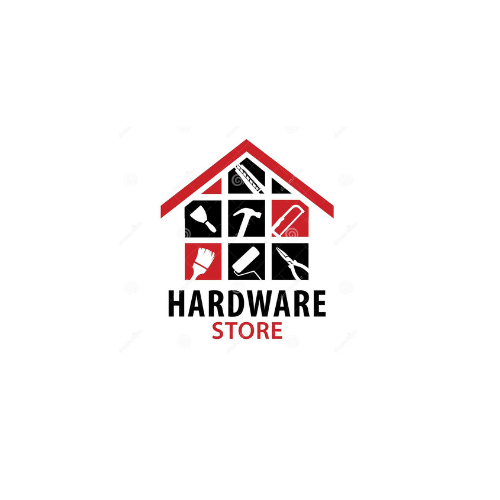
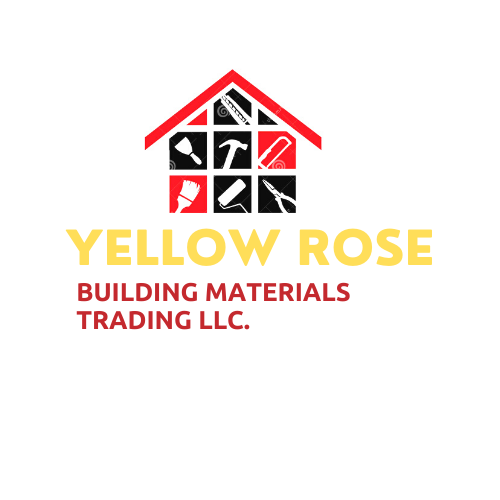
new

Changed region(s): [[0.12, 0.12, 0.87, 0.69]]

diff --git a/index.html b/index.html
@@ -43,7 +43,7 @@
                         <ul class="top-info text-center text-md-left ">
                             <li>
                                 <i class="fas fa-map-marker-alt "></i>
-                                <p class="info-text ">Industrial Area:03 , Sharjha. U.A.E, P.O BOX #65333
+                                <p class="info-text ">Industrial Area:03 , Sharjha, U.A.E
                                 </p>
                             </li>
                         </ul>
@@ -87,7 +87,7 @@
                         <div class="row align-items-center ">
                             <div class="logo col-lg-3 text-center text-lg-left mb-3 mb-md-5 mb-lg-0 ">
                                 <a class="d-block " href="index.html ">
-                                    <img loading="lazy " src="new img/main.png" alt="logo " />
+                                    <img loading="lazy " src="new img/huge.png" alt="logo " />
                                 </a>
                             </div>
                             <!-- logo end -->
@@ -97,15 +97,15 @@
                                     <li>
                                         <div class="info-box ">
                                             <div class="info-box-content ">
-                                                <p class="info-box-title ">Contact</p>
-                                                <p class="info-box-subtitle ">Industrial Area :03, Sharjha ,U.A.E <br> P.O BOX #65333</p>
+                                                <p class="info-box-title ">CONTACT:</p>
+                                                <p class="info-box-subtitle ">Industrial Area :03, Sharjha ,U.A.E </p>
                                             </div>
                                         </div>
                                     </li>
                                     <li>
                                         <div class="info-box ">
                                             <div class="info-box-content ">
-                                                <p class="info-box-title ">Phone</p>
+                                                <p class="info-box-title ">PHONE:</p>
                                                 <p class="info-box-subtitle ">+971 56 742 3322 </p>
                                             </div>
                                         </div>
@@ -113,14 +113,14 @@
                                     <li>
                                         <div class="info-box ">
                                             <div class="info-box-content ">
-                                                <p class="info-box-title ">Email</p>
+                                                <p class="info-box-title ">Email:</p>
                                                 <p class="info-box-subtitle "> yellowrose.buildingmaterials@gmail.com</p>
                                             </div>
                                         </div>
                                     </li>
 
                                     <li class="header-get-a-quote ">
-                                        <a style="background-color: rgb(56, 159, 255) " class="btn btn-primary " href="index.html ">Contact Us</a
+                                        <a style="background-color: rgb(175, 46, 46) " class="btn btn-primary " href="index.html ">Contact Us</a
                       >
                     </li>
                   </ul>
@@ -401,7 +401,7 @@
                     id="all "
                     value="all "
                     checked="checked "
-                  />wood
+                  /> <h4 style="padding:10px;margin-top:10px ; background-color:rgb(255, 207, 47)">wood</h4>
                
 
             </div>
@@ -413,7 +413,7 @@
                 <div class="col-lg-4 col-md-6 shuffle-item " data-groups='["government ","healthcare "]'>
                     <div class="project-img-container ">
                         <a class="gallery-popup " href="new img/wood-1.jpeg " aria-label="project-img ">
-                            <img class="img-fluid " src="new img/wood-2.jpeg " alt="project-img " />
+                            <img style="margin-top:10px; border-bottom: 5px solid rgb(179, 73, 46);"class="img-fluid " src="new img/wood-2.jpeg " alt="project-img " />
                             <span class="gallery-icon "><i class="fa fa-plus "></i
                       ></span>
                         </a>
@@ -431,8 +431,8 @@
 
                 <div class="col-lg-4 col-md-6 shuffle-item " data-groups='["healthcare "]'>
                     <div class="project-img-container ">
-                        <a class="gallery-popup " href="new img/wood-1.jpeg " aria-label="project-img ">
-                            <img class="img-fluid " src="new img/wood-1.jpeg " alt="project-img " />
+                        <a class="gallery-popup " href="new img/wood-1.jpeg " aria-label="project-img "> 
+                            <img style="margin-top:10px; border-bottom: 5px solid rgb(179, 73, 46);"class="img-fluid " src="new img/wood-1.jpeg " alt="project-img " /><br>
                             <span class="gallery-icon "><i class="fa fa-plus "></i
                       ></span>
                         </a>
@@ -444,7 +444,7 @@
                 <div class="col-lg-4 col-md-6 shuffle-item " data-groups='["infrastructure ","commercial "]'>
                     <div class="project-img-container ">
                         <a class="gallery-popup " href="new img/wood-3.jpeg " aria-label="project-img ">
-                            <img class="img-fluid " src="new img/wood-3.jpeg " alt="project-img " />
+                            <img style="margin-top:10px; border-bottom: 5px solid rgb(179, 73, 46);"class="img-fluid " src="new img/wood-3.jpeg " alt="project-img " /><br> <br>
                             <span class="gallery-icon "><i class="fa fa-plus "></i
                       ></span>
                         </a>
@@ -456,7 +456,7 @@
                 <div class="col-lg-4 col-md-6 shuffle-item " data-groups='["education ","infrastructure "]'>
                     <div class="project-img-container ">
                         <a class="gallery-popup " href="new img/wood-5.jpeg " aria-label="project-img ">
-                            <img class="img-fluid " src="new img/wood-5.jpeg " alt="project-img " />
+                            <img style="margin-top:10px; border-bottom: 5px solid rgb(179, 73, 46);" class="img-fluid " src="new img/wood-5.jpeg " alt="project-img " /><br><br>
                             <span class="gallery-icon "><i class="fa fa-plus "></i
                       ></span>
                         </a>
@@ -467,8 +467,8 @@
 
                 <div class="col-lg-4 col-md-6 shuffle-item " data-groups='["infrastructure ","education "]'>
                     <div class="project-img-container ">
-                        <a class="gallery-popup " href="new img/wood-6.jpeg " aria-label="project-img ">
-                            <img class="img-fluid " src="new img/wood-6.jpeg " alt="project-img " />
+                        <a style="margin-top:10px; border-bottom: 4px solid #ddd;" class="gallery-popup " href="new img/wood-6.jpeg " aria-label="project-img ">
+                            <img  style="margin-top:10px; border-bottom: 5px solid rgb(179, 73, 46);" class="img-fluid " src="new img/wood-6.jpeg " alt="project-img " /><br><br>
                             <span class="gallery-icon "><i class="fa fa-plus "></i
                       ></span>
                         </a>
@@ -478,8 +478,8 @@
 
                     <div class="col-lg-4 col-md-6 shuffle-item " data-groups='["residential "]'>
                         <div class="project-img-container ">
-                            <a class="gallery-popup " href="new img/wood-7.jpeg " aria-label="project-img ">
-                                <img class="img-fluid " src="new img/wood-7.jpeg " alt="project-img " />
+                            <a style="margin-top:10px; border-bottom: 1px solid #ddd;" class="gallery-popup " href="new img/wood-7.jpeg " aria-label="project-img ">
+                                <img style="margin-top:10px; border-bottom: 5px solid rgb(179, 73, 46);" style="margin-top:10px; border-bottom: 1px solid #ddd;"  class="img-fluid " src="new img/wood-7.jpeg " alt="project-img " />
                                 <span class="gallery-icon "><i class="fa fa-plus "></i
                       ></span>
                             </a>
@@ -524,8 +524,8 @@
 
                 <div class="col-lg-4 col-md-6 shuffle-item " data-groups='["government ","healthcare "]'>
                     <div class="project-img-container ">
-                        <a class="gallery-popup " href="new img/h11.jpeg " aria-label="project-img ">
-                            <img class="img-fluid " src="new img/h11.jpeg " alt="project-img " />
+                        <a style="margin-top:10px; border-bottom: 5px solid rgb(179, 73, 46);" class="gallery-popup " href="new img/h11.jpeg " aria-label="project-img ">
+                            <img style="margin-top:10px; border-bottom: 5px solid rgb(179, 73, 46);" class="img-fluid " src="new img/h11.jpeg " alt="project-img " />
                             <span class="gallery-icon "><i class="fa fa-plus "></i
                     ></span>
                         </a>
@@ -544,7 +544,7 @@
                 <div class="col-lg-4 col-md-6 shuffle-item " data-groups='["healthcare "]'>
                     <div class="project-img-container ">
                         <a class="gallery-popup " href="new img/h2.jpeg " aria-label="project-img ">
-                            <img class="img-fluid " src="new img/h2.jpeg " alt="project-img " />
+                            <img style="margin-top:10px; border-bottom: 5px solid rgb(179, 73, 46);" class="img-fluid " src="new img/h2.jpeg " alt="project-img " />
                             <span class="gallery-icon "><i class="fa fa-plus "></i
                     ></span>
                         </a>
@@ -556,7 +556,7 @@
                 <div class="col-lg-4 col-md-6 shuffle-item " data-groups='["infrastructure ","commercial "]'>
                     <div class="project-img-container ">
                         <a class="gallery-popup " href="new img/h3.jpeg " aria-label="project-img ">
-                            <img class="img-fluid " src="new img/h3.jpeg " alt="project-img " />
+                            <img style="margin-top:10px; border-bottom: 5px solid rgb(179, 73, 46);" class="img-fluid " src="new img/h3.jpeg " alt="project-img " />
                             <span class="gallery-icon "><i class="fa fa-plus "></i
                     ></span>
                         </a>
@@ -568,7 +568,7 @@
                 <div class="col-lg-4 col-md-6 shuffle-item " data-groups='["education ","infrastructure "]'>
                     <div class="project-img-container ">
                         <a class="gallery-popup " href="new img/h5.jpeg " aria-label="project-img ">
-                            <img class="img-fluid " src="new img/h5.jpeg " alt="project-img " />
+                            <img style="margin-top:10px; border-bottom: 5px solid rgb(179, 73, 46);" class="img-fluid " src="new img/h5.jpeg " alt="project-img " />
                             <span class="gallery-icon "><i class="fa fa-plus "></i
                     ></span>
                         </a>
@@ -580,7 +580,7 @@
                 <div class="col-lg-4 col-md-6 shuffle-item " data-groups='["infrastructure ","education "]'>
                     <div class="project-img-container ">
                         <a class="gallery-popup " href="new img/h6.jpeg " aria-label="project-img ">
-                            <img class="img-fluid " src="new img/h6.jpeg " alt="project-img " />
+                            <img style="margin-top:10px; border-bottom: 5px solid rgb(179, 73, 46);"class="img-fluid " src="new img/h6.jpeg " alt="project-img " />
                             <span class="gallery-icon "><i class="fa fa-plus "></i
                     ></span>
                         </a>
@@ -591,7 +591,7 @@
                     <div class="col-lg-4 col-md-6 shuffle-item " data-groups='["residential "]'>
                         <div class="project-img-container ">
                             <a class="gallery-popup " href="new img/h22.jpeg " aria-label="project-img ">
-                                <img class="img-fluid " src="new img/h22.jpeg " alt="project-img " />
+                                <img style="margin-top:10px; border-bottom: 5px solid rgb(179, 73, 46);" class="img-fluid " src="new img/h22.jpeg " alt="project-img " />
                                 <span class="gallery-icon "><i class="fa fa-plus "></i
                     ></span>
                             </a>
@@ -692,7 +692,7 @@
                 <div class="col-lg-4 ">
                     <div class="subscribe-call-to-acton ">
                         <h3>Can We Help?</h3>
-                        <h4>Industrial Area :03, Sharjha ,U.A.E <br> P.O BOX #65333 <br> <br>
+                        <h4>Industrial Area :03, Sharjha ,U.A.E  <br> <br>
 
                           phone: +971 56 742 3322</h4>
                     </div>
@@ -759,7 +759,7 @@
               <div class="col-lg-4 col-md-6 footer-widget mt-5 mt-md-0 ">
                 <h3 class="widget-title ">Touch with us</h3>
                 <div class="working-hours ">
-                    Industrial Area :03, Sharjha ,U.A.E <br> P.O BOX #65333
+                    Industrial Area :03, Sharjha ,U.A.E <br> <br>
 <br> <br>                  phone: 971 56 742 3322
                 </div>
               </div>

diff --git a/css/style.css b/css/style.css
@@ -79,8 +79,8 @@ h5 {
 html {
     overflow-x: hidden !important;
     height: 100%;
-    max-width: 90%;
-    margin-left: 10px;
+    max-width: 97%;
+    margin-left: 0px;
     position: relative;
     -webkit-font-smoothing: antialiased;
     text-rendering: optimizeLegibility;
@@ -776,12 +776,12 @@ ul.navbar-nav>li.active>a {
 /*-- Logo --*/
 
 .logo img {
-    width: 100%;
-    height: 20%;
+    width: 120%;
+    height: 10%;
 }
 
 .header-two .logo img {
-    height: 30px;
+    height: 40px;
 }
 
 
@@ -921,6 +921,7 @@ ul.top-info-box>li.nav-search i {
 
 .navbar-toggler {
     margin: 10px 0;
+    margin: ;
     padding: 6px;
     border-radius: 0;
     font-size: 1rem;
